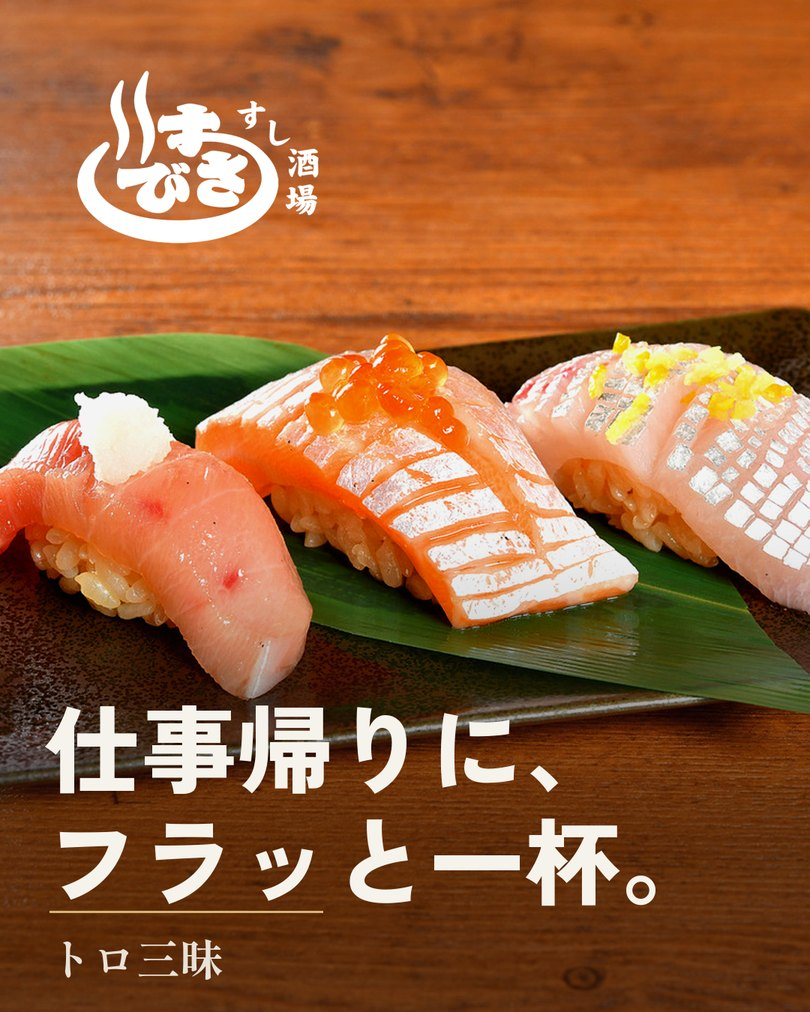
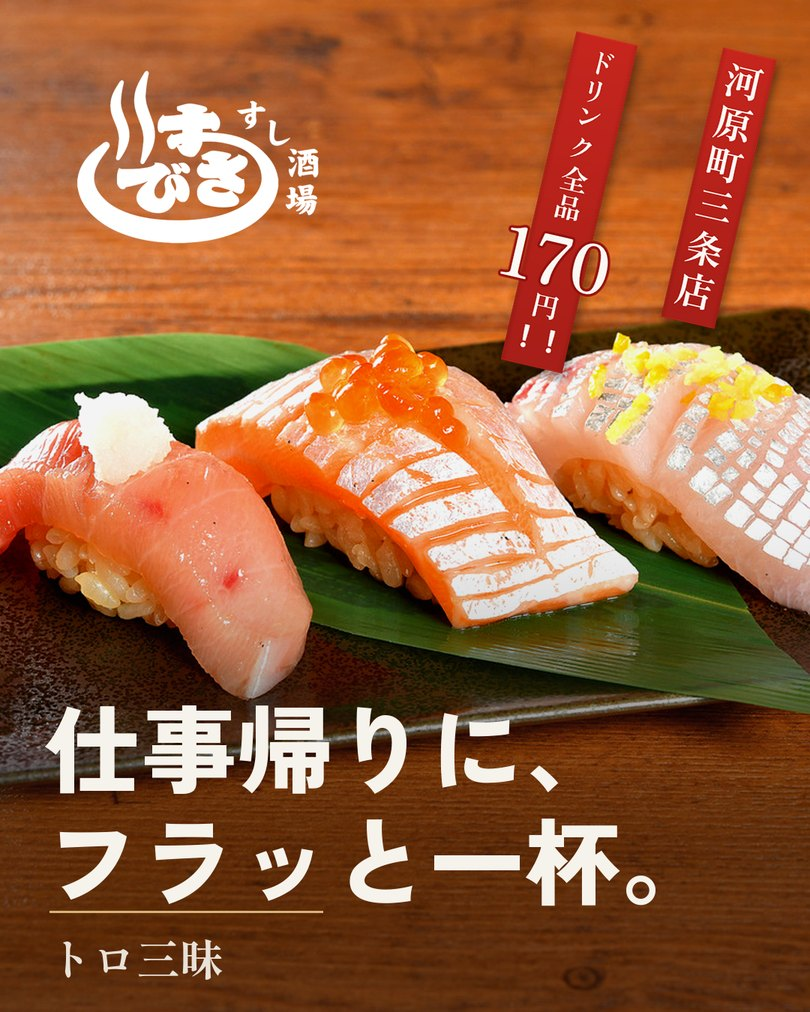
確認画面(下書き)更新: キャプション『本日のおすすめは○○です！』・営業時間FLO/DLO削除・全フィード候補に赤札設置・商品名末尾数字除去。SW v60
Claude-Session: https://claude.ai/code/session_01Di2y2Fk2KdXwa37iAoiNS2

Changed region(s): [[0.6173, 0.0306, 0.8025, 0.3982], [0.8025, 0.0306, 0.9568, 0.337]]

diff --git a/pwa/reels.html b/pwa/reels.html
@@ -141,26 +141,28 @@
   var DEFAULT=["京都グルメ","河原町三条","京都居酒屋","すし酒場","三条グルメ","sushi","kyoto"]; // 国内5＋インバウンド2＝7
   var STAR={3:"★★★",2:"★★",1:"★"}, RANKTTL={3:"人気 大",2:"人気 中",1:"人気 小（上位ねらい）"};
 
-  var FEEDCAP="こんにちは\n河原町三条店の【大衆寿司酒場すさび湯】です🍻\n\n安くて旨い、が自慢です。本日は “まぐろ三昧” のご紹介。\n新鮮なネタのお寿司も、豊富な一品料理も、うれしい価格でご用意しています。\nドリンク全品170円で、気兼ねなく乾杯を。\n\n♨\"すさび湯\"とは\n『遊びに来る感覚で楽しんでほしい』という想いから、“遊ぶ”の語源である“すさぶ”と、日常に溶け込んだ“銭湯”を掛け合わせて“すさび湯”と名付けました。\n価格はカジュアルに、お寿司は本格的に。\n\n▪▪▪▪▪▪▪▪▪▪\n#すさび湯\n・営業時間\n月〜金 16:00〜23:00（FLO.22:00 DLO.22:30）\n土日祝 11:00〜23:00\n・住所\n京都市中京区河原町通三条上る恵比寿町534-16\n京阪本線 三条駅から徒歩約4分\n▪▪▪▪▪▪▪▪▪▪\n\n新メニューやお得な情報も投稿していきます。\nぜひフォローお願いします！";
-  var REELCAP="安くて旨い、が自慢です。本日は “まぐろ三昧” 🍣\n河原町三条／すさび湯 三条";
+  var FEEDCAP="こんにちは\n河原町三条店の【大衆寿司酒場すさび湯】です🍻\n\n本日のおすすめは、{NAME}です！\n新鮮なネタのお寿司も、豊富な一品料理も、うれしい価格でご用意しています。\nドリンク全品170円で、気兼ねなく乾杯を。\n\n♨\"すさび湯\"とは\n『遊びに来る感覚で楽しんでほしい』という想いから、“遊ぶ”の語源である“すさぶ”と、日常に溶け込んだ“銭湯”を掛け合わせて“すさび湯”と名付けました。\n価格はカジュアルに、お寿司は本格的に。\n\n▪▪▪▪▪▪▪▪▪▪\n#すさび湯\n・営業時間\n月〜金 16:00〜23:00\n土日祝 11:00〜23:00\n・住所\n京都市中京区河原町通三条上る恵比寿町534-16\n京阪本線 三条駅から徒歩約4分\n▪▪▪▪▪▪▪▪▪▪\n\n新メニューやお得な情報も投稿していきます。\nぜひフォローお願いします！";
+  var REELCAP="本日のおすすめは、{NAME}です！🍣\n河原町三条／すさび湯 三条";
+  function cleanName(n){ return (n||"").replace(/\s*\d+$/,"").trim(); }        // 商品名末尾の数字を除去（例：サーモン三昧2→サーモン三昧）
+  function capFor(tmpl,name){ return tmpl.replace(/\{NAME\}/g, cleanName(name)); }
   var SAMPLEVID="https://cdn.jsdelivr.net/gh/amami-cell/susabiyu-media@594980686729a6ec0fc2c41873615443d42fa9a4/preview/20260720125216_0788.mp4";
 
   /* サンプル候補（実データは後でバックエンドから差し込む） */
   var DATA={
     feed:[
-      {name:"まぐろ三昧", copy:"旨い、安い、賑やかに。", cap:FEEDCAP, img:"./sample/feed1.jpg", reco:true},
-      {name:"サーモン三昧", copy:"この安さは、ちょっと反則。", cap:FEEDCAP.replace(/まぐろ三昧/g,"サーモン三昧"), img:"./sample/feed2.jpg", reco:false},
-      {name:"トロ三昧", copy:"仕事帰りに、フラッと一杯。", cap:FEEDCAP.replace(/まぐろ三昧/g,"トロ三昧"), img:"./sample/feed3.jpg", reco:false}
+      {name:"まぐろ三昧", copy:"旨い、安い、賑やかに。", img:"./sample/feed1.jpg", reco:true},
+      {name:"サーモン三昧", copy:"この安さは、ちょっと反則。", img:"./sample/feed2.jpg", reco:false},
+      {name:"トロ三昧", copy:"仕事帰りに、フラッと一杯。", img:"./sample/feed3.jpg", reco:false}
     ],
     reel:[
-      {name:"本日のにぎり", copy:"できたてを、その場で。", cap:REELCAP, video:SAMPLEVID, dur:48, reco:true},
-      {name:"乾杯シーン", copy:"まずは一杯、いかがですか。", cap:REELCAP, video:SAMPLEVID, dur:48, reco:false},
-      {name:"揚げたて天ぷら", copy:"サクッと、揚げたて。", cap:REELCAP, video:SAMPLEVID, dur:48, reco:false}
+      {name:"本日のにぎり", copy:"できたてを、その場で。", video:SAMPLEVID, dur:48, reco:true},
+      {name:"乾杯シーン", copy:"まずは一杯、いかがですか。", video:SAMPLEVID, dur:48, reco:false},
+      {name:"揚げたて天ぷら", copy:"サクッと、揚げたて。", video:SAMPLEVID, dur:48, reco:false}
     ]
   };
   var SCHED=[
-    {kind:"feed", name:"サーモン三昧", copy:"この安さは、ちょっと反則。", cap:DATA.feed[1].cap, img:"./sample/feed2.jpg", when:"5/12(月) 18:00"},
-    {kind:"reel", name:"本日のにぎり", copy:"できたてを、その場で。", cap:REELCAP, video:SAMPLEVID, when:"5/14(水) 20:00"}
+    {kind:"feed", name:"サーモン三昧", copy:"この安さは、ちょっと反則。", img:"./sample/feed2.jpg", when:"5/12(月) 18:00"},
+    {kind:"reel", name:"本日のにぎり", copy:"できたてを、その場で。", video:SAMPLEVID, when:"5/14(水) 20:00"}
   ];
 
   var TAB="feed";
@@ -200,7 +202,7 @@
            '<input type="range" class="ts" min="0" max="100" value="0"><input type="range" class="te" min="0" max="100" value="60"></div>'+
            '<div class="trimhd" style="margin-top:4px"><span class="tstart">開始 0:00</span><span class="tend">終了 0:30</span></div></div>';
     }
-    var full=it.cap, short=full.length>70?full.slice(0,70)+"…":full;
+    var full=capFor(TAB==="feed"?FEEDCAP:REELCAP, it.name), short=full.length>70?full.slice(0,70)+"…":full;
     var cap='<div class="cap" data-full="'+esc(full)+'" data-short="'+esc(short)+'">'+esc(short)+'</div>'+
             (full.length>70?'<span class="more">…続きを読む</span>':"");
     var actions='<div class="actions"><button class="btn post">今すぐ投稿</button><button class="btn resv">日時を決めて予約</button>'+
@@ -262,7 +264,7 @@
       var row=document.createElement("div"); row.className="srow";
       var thumb=s.kind==="reel"?'<div class="sthumb reel">🎬</div>':(s.img?'<img class="sthumb" src="'+s.img+'">':'<div class="sthumb">🍣</div>');
       row.innerHTML=thumb+'<div class="smeta"><span class="sk '+(s.kind==="reel"?"reel":"")+'">'+(s.kind==="feed"?"フィード":"リール")+'</span>'+
-        '<div class="sdate">'+esc(s.when)+'</div><div class="stxt">'+esc(s.name)+'「'+esc(s.copy)+'」</div></div>'+
+        '<div class="sdate">'+esc(s.when)+'</div><div class="stxt">'+esc(cleanName(s.name))+'「'+esc(s.copy)+'」</div></div>'+
         '<button class="scancel">取消</button>';
       row.querySelector(".smeta").onclick=function(){ openDetail(s); };
       thumbClick(row,s);
@@ -281,7 +283,7 @@
     var tags=DEFAULT.map(function(t){return "#"+t;}).join(" ");
     body.innerHTML=media+
       '<div class="dmeta">予約日時</div><div class="dcap">'+esc(s.when)+'</div>'+
-      '<div class="dmeta">本文</div><div class="dcap">'+esc(s.cap||"")+'</div>'+
+      '<div class="dmeta">本文</div><div class="dcap">'+esc(capFor(s.kind==="feed"?FEEDCAP:REELCAP, s.name))+'</div>'+
       '<div class="dmeta">ハッシュタグ</div><div class="dtags">'+tags+'</div>'+
       '<div class="dact"><button class="btn post" onclick="toast(\'（下書き）今すぐ投稿\')">今すぐ投稿</button>'+
       '<button class="btn resv" onclick="toast(\'（下書き）日時を変更\')">日時を変更</button></div>';

diff --git a/pwa/sw.js b/pwa/sw.js
@@ -2,7 +2,7 @@
    ・アプリのガワ(shell)を precache → 2回目以降は“開いた瞬間”に表示
    ・jsDelivr のメディアは stale-while-revalidate でランタイムキャッシュ
    ・GAS(JSONP)などデータ通信はキャッシュしない（常に最新を取りに行く） */
-var VER = "susabiyu-v59";
+var VER = "susabiyu-v60";
 var SHELL = VER + "-shell";
 var MEDIA = VER + "-media";
 var SHELL_FILES = [
